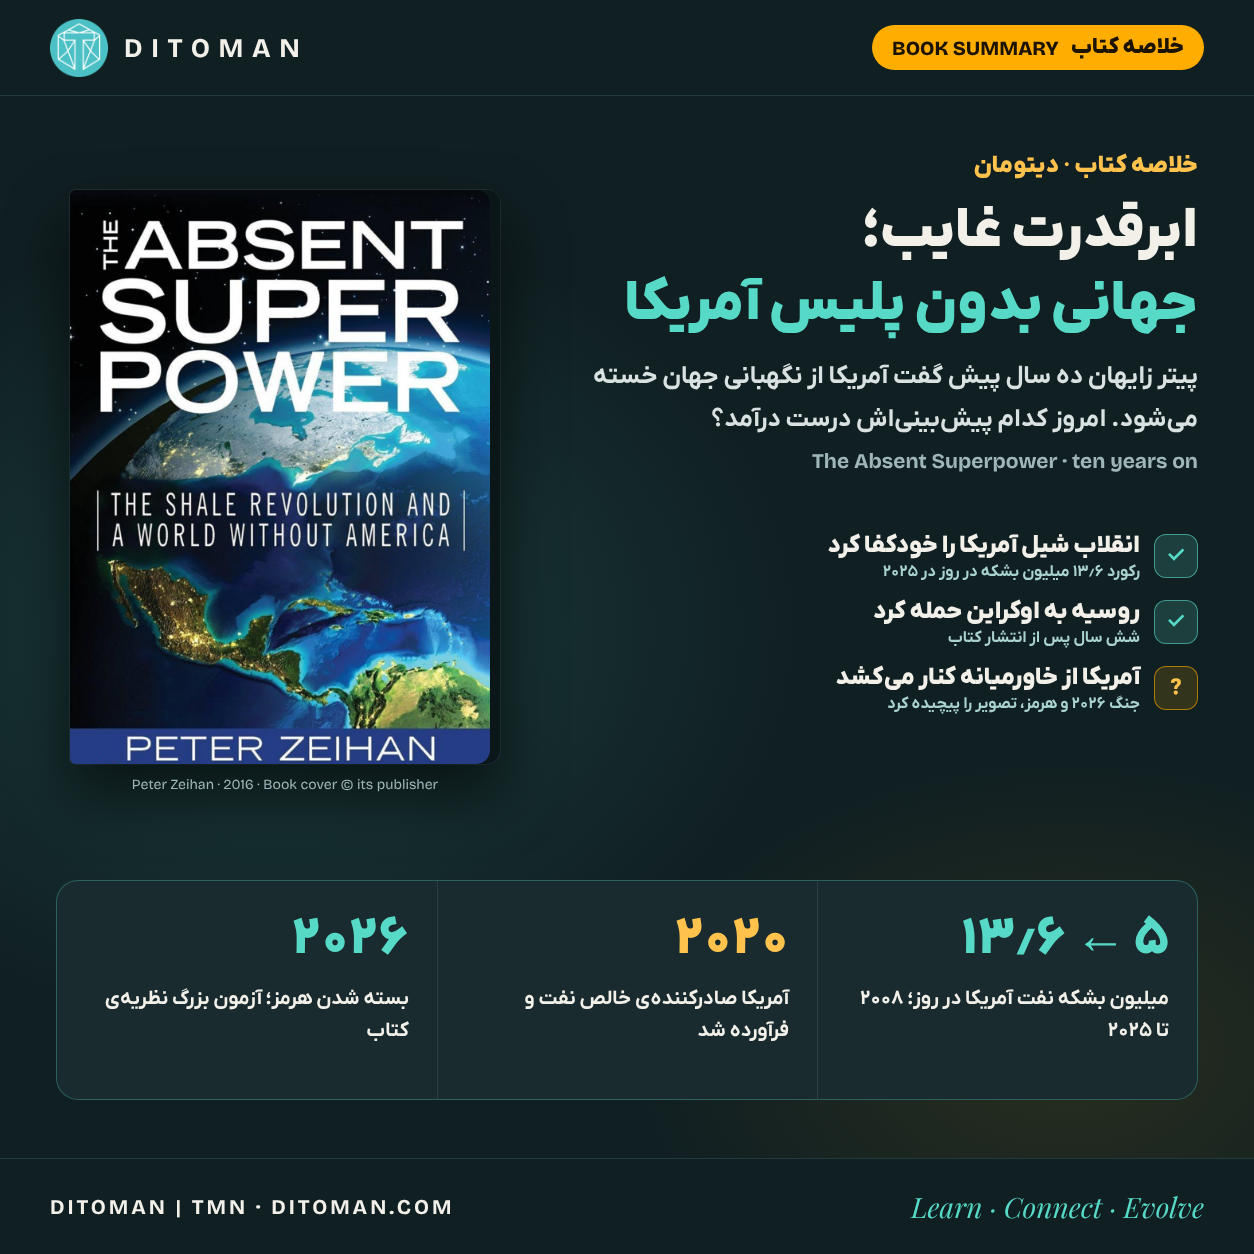
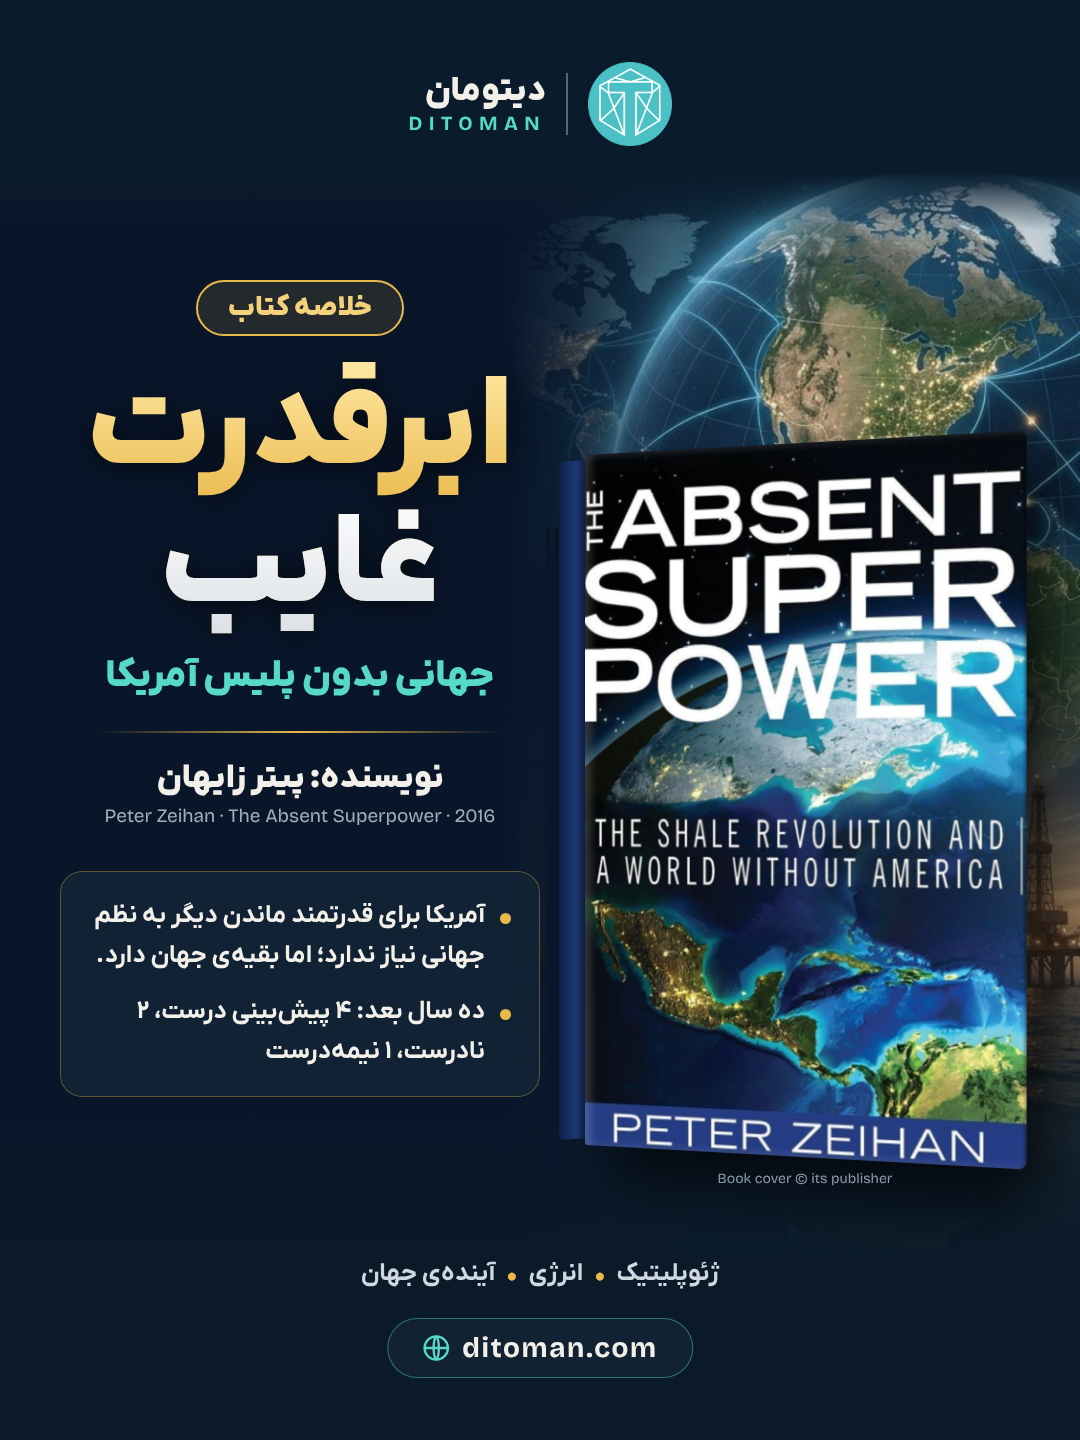
Book summary: new template cover
Claude-Session: https://claude.ai/code/session_012uZ8KiEEJt1CcpRZeg7KSX

diff --git a/book-absent-superpower.html b/book-absent-superpower.html
@@ -456,7 +456,7 @@ html[data-lang="fa"] .hero .container,html[data-lang="fa"] .instagram-box{direct
 <main>
 <section class="hero">
 <div class="container">
-<div class="hero-image"><img lang="fa" src="social/book-absent-superpower/card.webp" srcset="social/book-absent-superpower/card.webp 900w, social/book-absent-superpower/post.webp 1254w" sizes="(max-width: 600px) 92vw, 760px" alt="Ditoman book summary cover with the jacket of The Absent Superpower by Peter Zeihan" onerror="this.parentElement.style.display='none'"><img lang="en" src="social/book-absent-superpower/en-card.webp" srcset="social/book-absent-superpower/en-card.webp 900w, social/book-absent-superpower/en.webp 1080w" sizes="(max-width: 600px) 92vw, 760px" alt="Ditoman book summary cover with the jacket of The Absent Superpower by Peter Zeihan" onerror="this.parentElement.style.display='none'"></div>
+<div class="hero-image"><img lang="fa" src="social/book-absent-superpower/post.webp" width="1080" height="1440" style="aspect-ratio:3/4;height:auto;object-fit:contain" alt="Ditoman book summary cover with the jacket of The Absent Superpower by Peter Zeihan" onerror="this.parentElement.style.display='none'"><img lang="en" src="social/book-absent-superpower/en-card.webp" srcset="social/book-absent-superpower/en-card.webp 900w, social/book-absent-superpower/en.webp 1080w" sizes="(max-width: 600px) 92vw, 760px" alt="Ditoman book summary cover with the jacket of The Absent Superpower by Peter Zeihan" onerror="this.parentElement.style.display='none'"></div>
 <div class="lesson-badge"><span lang="en">Book summary</span><span lang="fa">خلاصه کتاب</span></div>
 <h1 lang="fa" dir="rtl" style="text-align:right">خلاصه کتاب «ابرقدرت غایب»؛ جهانی بدون پلیس آمریکا، ده سال بعد</h1>
 <h1 lang="en">Book summary: The Absent Superpower, ten years on</h1>
